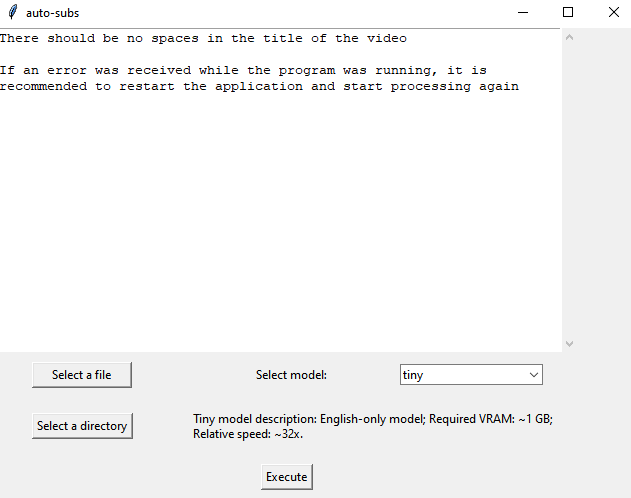
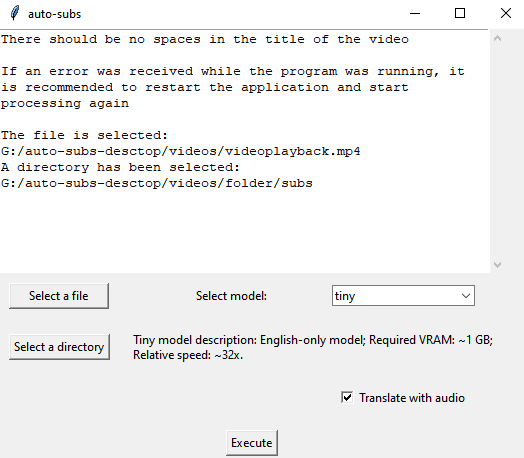
fixed readme

diff --git a/main2.py b/main2.py
@@ -22,10 +22,10 @@ class FileSelectorApp:
     def __init__(self, root):
         self.root = root
         self.root.title("auto-subs")
-        self.root.geometry("640x480")
+        self.root.geometry("530x430")
 
         self.text_widget = scrolledtext.ScrolledText(
-            self.root, wrap=tk.WORD, width=70, height=20)
+            self.root, wrap=tk.WORD, width=50, height=15)
         self.text_widget.grid(row=0, column=0, columnspan=4, sticky="nsew")
 
         console_redirector = ConsoleRedirector(self.text_widget)
@@ -34,6 +34,7 @@ class FileSelectorApp:
         self.file_path = None
         self.directory_path = None
         self.model_var = tk.StringVar(value='tiny')
+        self.translate_var = tk.BooleanVar(value=False)
 
         self.file_button = tk.Button(
             self.root, text="     Select a file     ", command=self.choose_file)
@@ -51,23 +52,25 @@ class FileSelectorApp:
         self.model_combobox.grid(row=1, column=3, padx=10, pady=10)
 
         self.model_description_label = tk.Label(self.root, text="", wraplength=400, justify=tk.LEFT)
-        self.model_description_label.grid(row=2, column=1, columnspan=4, padx=10, pady=10)
+        self.model_description_label.grid(row=2, column=1, columnspan=3, padx=10, pady=10)
+
+        self.translate_checkbutton = tk.Checkbutton(
+            self.root, text="Translate with audio", variable=self.translate_var)
+        self.translate_checkbutton.grid(row=3, column=3, columnspan=2, pady=10)
 
         self.execute_button = tk.Button(
             self.root, text="Execute", command=self.execute)
-        self.execute_button.grid(row=3, column=0, columnspan=4, pady=10)
+        self.execute_button.grid(row=7, column=0, columnspan=4, pady=10)
 
         self.model_descriptions = {
             'tiny': 'Tiny model description: English-only model; Required VRAM: ~1 GB; Relative speed: ~32x.',
             'base': 'Base model description: English-only model; Required VRAM: ~1 GB; Relative speed: ~16x.',
-            'small': 'Small model description: English-only model; Required VRAM: ~2 GB GB; Relative speed: ~6x.',
+            'small': 'Small model description: English-only model; Required VRAM: ~2 GB; Relative speed: ~6x.',
             'medium': 'Medium model description: English-only model; Required VRAM: ~5 GB; Relative speed: ~2x.',
             'large': 'Large model description: Any popular language; Required VRAM: ~10 GB; Relative speed: 1x.',
         }
-        
 
         self.update_model_description(None)
-
         self.model_combobox.bind("<<ComboboxSelected>>", self.update_model_description)
 
     def update_model_description(self, event):
@@ -81,9 +84,7 @@ class FileSelectorApp:
         os.environ['PROJECT_ROOT'] = base_dir
 
         if not(os.path.exists(os.path.join(base_dir, 'src/subtitles/model/')) and os.path.isdir(os.path.join(base_dir, 'src/subtitles/model/'))):
-            # print('not exist!!!')
             from pathlib import Path
-
             from transformers import AutoTokenizer, AutoModelForSeq2SeqLM
 
             model_name = "Helsinki-NLP/opus-mt-en-ru"
@@ -130,13 +131,12 @@ class FileSelectorApp:
     def process_file(self):
         if self.file_path and self.directory_path:
             try:
-                # base_dir = os.path.abspath(os.path.dirname(__file__))
-                # base_dir = re.sub(r'\\', '/', base_dir)
-                # os.environ['PROJECT_ROOT'] = base_dir
                 base_dir = os.environ.get('PROJECT_ROOT')
 
                 model = self.model_var.get()
+                translate = self.translate_var.get()
                 print('You chose model: ', model)
+                print('Translate and Voice Over: ', translate)
 
                 process_whisper = subprocess.Popen(
                     f'cd {base_dir}/bin && whisper {self.file_path} --model {model} --language en',
@@ -149,8 +149,9 @@ class FileSelectorApp:
                 for line in process_whisper.stdout:
                     print(line.strip())
 
+                handle_video_command = f'from src.subtitles.handle_video import HandleVideo; HandleVideo.handle_video("{self.file_path.split("/")[-1]}", "{self.file_path}", "{self.directory_path}", "{self.translate_var.get()}")'
                 process_handle_video = subprocess.Popen(
-                    ['python', '-c', f'from src.subtitles.handle_video import HandleVideo; HandleVideo.handle_video("{self.file_path.split("/")[-1]}", "{self.file_path}", "{self.directory_path}")'],
+                    ['python', '-c', handle_video_command],
                     shell=True,
                     stdout=subprocess.PIPE,
                     stderr=subprocess.STDOUT,
@@ -168,8 +169,6 @@ class FileSelectorApp:
 
             else:
                 self.clear_bin_directory('./bin')
-                # os.rmdir('./bin')
-                pass
 
         else:
             print("You must select the file and directory to continue processing.")
@@ -183,4 +182,3 @@ if __name__ == "__main__":
     print('There should be no spaces in the title of the video\n')
     print('If an error was received while the program was running, it is recommended to restart the application and start processing again\n')
     root.mainloop()
-    

diff --git a/src/subtitles/audio_record.py b/src/subtitles/audio_record.py
@@ -1,0 +1,69 @@
+from typing import NoReturn
+import pysrt
+import os
+
+from gtts import gTTS
+from abc import ABC, abstractmethod
+from moviepy.editor import VideoFileClip, CompositeAudioClip, AudioFileClip
+
+
+class MakeAudioRecordABC(ABC):
+
+    @staticmethod
+    def check_directory(directory: str):
+        os.makedirs(directory, exist_ok=True)
+
+    @staticmethod
+    def check_audio_clip_is_shorter_than_subtitle(audio_clip, duration, audio_file):
+        if audio_clip.duration < duration:
+            # print(f"Warning: Duration of audio file {audio_file} is shorter than the subtitle duration.")
+            duration = audio_clip.duration
+
+        return duration
+
+    @staticmethod
+    def text_to_speech(text, output_file):
+        tts = gTTS(text=text, lang='ru')
+        tts.save(output_file)
+
+    @staticmethod
+    def time_to_seconds(t):
+        return t.hours * 3600 + t.minutes * 60 + t.seconds + t.milliseconds / 1000
+    
+    @staticmethod
+    def close_audio_files(audio_clips):
+        for audio_clip in audio_clips:
+            audio_clip.close()
+
+
+class MakeAudioRecord(MakeAudioRecordABC):
+
+    def make_audio_for_each_subtitles(cls, subtitles: pysrt, path_of_audio: str) -> CompositeAudioClip:
+
+        cls.check_directory(f'./{path_of_audio}/records')
+
+        audio_clips = []
+
+        for i, subtitle in enumerate(subtitles):
+            start_time = cls.time_to_seconds(subtitle.start)
+            end_time = cls.time_to_seconds(subtitle.end)
+            duration = end_time - start_time
+            text = subtitle.text
+
+            audio_file = f"./{path_of_audio}/records/audio_{i}.mp3"
+            cls.text_to_speech(text, audio_file)
+
+            audio_clip = AudioFileClip(audio_file)
+
+            duration = cls.check_audio_clip_is_shorter_than_subtitle(audio_clip, duration, audio_file)
+            
+            audio_clip = audio_clip.set_start(start_time).set_duration(duration).volumex(2.0)
+            audio_clips.append(audio_clip)
+
+        return CompositeAudioClip(audio_clips), audio_clips
+
+    def perform_audio_creation(cls, subtitles, path_of_audio: str) -> CompositeAudioClip:
+
+        new_audio, audio_clips = cls.make_audio_for_each_subtitles(subtitles=subtitles, path_of_audio=path_of_audio)
+
+        return new_audio, audio_clips

diff --git a/src/subtitles/put_subs.py b/src/subtitles/put_subs.py
@@ -3,7 +3,7 @@ from abc import ABC, abstractmethod
 from .make_subs import MakeSubs
 
 import pysrt
-from moviepy.editor import VideoFileClip, TextClip, CompositeVideoClip
+from moviepy.editor import VideoFileClip, TextClip, CompositeVideoClip, CompositeAudioClip
 
 
 class PutSubsABC(ABC):
@@ -12,19 +12,26 @@ class PutSubsABC(ABC):
 
 class PutSubs(PutSubsABC):
 
-    def __init__(self, mp4filename: str, srtfilename: str, path_for_video: str, path_for_new_video: str):
+    def __init__(self, mp4filename: str, srtfilename: str, path_for_video: str, path_for_new_video: str, new_audio_filename: str=None):
         self.__begin, self.__end = mp4filename.split(".mp4")
         self.__video = VideoFileClip(path_for_video)
         self.__subtitles = pysrt.open(srtfilename)
         self.__output_video_file = (self.__begin + '_subtitled' + ".mp4")
         self.path_for_new_video = str(path_for_new_video)
+        self.__new_audio = new_audio_filename
+        self.__old_audio = self.__video.audio
+        
 
     @staticmethod
     def __create_subtitle_clips(subtitles, video):
         return MakeSubs().create_subtitle_clips(subtitles, video.size)
 
     @staticmethod
-    def __make_final_video(video, subtitle_clips):
+    def __make_final_video(video, subtitle_clips, old_audio, new_audio=None, ):
+        if new_audio:
+            final_audio = CompositeAudioClip([old_audio, new_audio])
+            video = video.set_audio(final_audio)
+
         return CompositeVideoClip([video] + subtitle_clips)
 
     @staticmethod
@@ -32,6 +39,11 @@ class PutSubs(PutSubsABC):
         final_video.write_videofile(f'{path_for_new_video}/{output_video_file}')
 
     def generate_video_with_subtitles(self):
-        self.__save_final_video(self.__make_final_video(
-            self.__video, self.__create_subtitle_clips(self.__subtitles, self.__video)
-        ), self.__output_video_file, self.path_for_new_video)
+        self.__save_final_video(
+            self.__make_final_video(
+            video=self.__video, subtitle_clips=self.__create_subtitle_clips(
+                self.__subtitles, self.__video,
+                ), 
+            old_audio=self.__old_audio, new_audio=self.__new_audio
+        ), self.__output_video_file, self.path_for_new_video
+        )

diff --git a/src/subtitles/handle_video.py b/src/subtitles/handle_video.py
@@ -6,6 +6,7 @@ import sys
 
 from .put_subs import PutSubs
 from .my_translator import MyGoogleTranslator, MyLocalTranslator
+from .audio_record import MakeAudioRecord
 
 # class HandleVideo():
 
@@ -29,7 +30,7 @@ from .my_translator import MyGoogleTranslator, MyLocalTranslator
 class HandleVideo():
 
     @staticmethod
-    def handle_video(name_of_video, path_for_video, path_for_new_video):
+    def handle_video(name_of_video, path_for_video, path_for_new_video, translate_var=None):
         try:
             mp4filename = name_of_video
             srtfilename = os.environ.get('PROJECT_ROOT') + \
@@ -46,12 +47,40 @@ class HandleVideo():
 
         except Exception as e:
             print('MyLocalTranslator ', e)
+
+        new_audio_filename = None
+        if translate_var == 'True':
+
+            try:
+                new_audio_filename, audio_clips = MakeAudioRecord().perform_audio_creation(subtitles=subtitles, path_of_audio='bin' )
+
+            except Exception as e:
+                print('MakeAudioRecord ', e)
+
+        # try:
+        #     PutSubs(mp4filename, srtfilename, path_for_video,
+        #             path_for_new_video, new_audio_filename).generate_video_with_subtitles()
+        # except Exception as e:
+        #     print('PutSubs ', e)
+
+        PutSubs(mp4filename, srtfilename, path_for_video,
+                    path_for_new_video, new_audio_filename).generate_video_with_subtitles()
         
-        try:
-            PutSubs(mp4filename, srtfilename, path_for_video,
-                    path_for_new_video).generate_video_with_subtitles()
+
+        if translate_var == 'True':
+            for audio_clip in audio_clips:
+                        audio_clip.close()
+        
+
+        
+
+        
+        
+        # try:
+        #     PutSubs(mp4filename, srtfilename, path_for_video,
+        #             path_for_new_video, new_audio_filename).generate_video_with_subtitles()
             
-        except Exception as e:
-            print('PutSubs ', e)
+        # except Exception as e:
+        #     print('PutSubs ', e)
             
 

diff --git a/README.md b/README.md
@@ -19,5 +19,7 @@ pip3 install -r requirements.txt;
 ```
 
 After installing requirements you need to to choose file.mp4 which you want to translate and directory where you want to save your new video with subtitles. Then choose size of model for recognize audio which you want. After that you need to press button 'execute'. Then the program should start work.
+
 ![Alt text](./images/image.png)
+
 ![Alt text](./images/image2.png)
